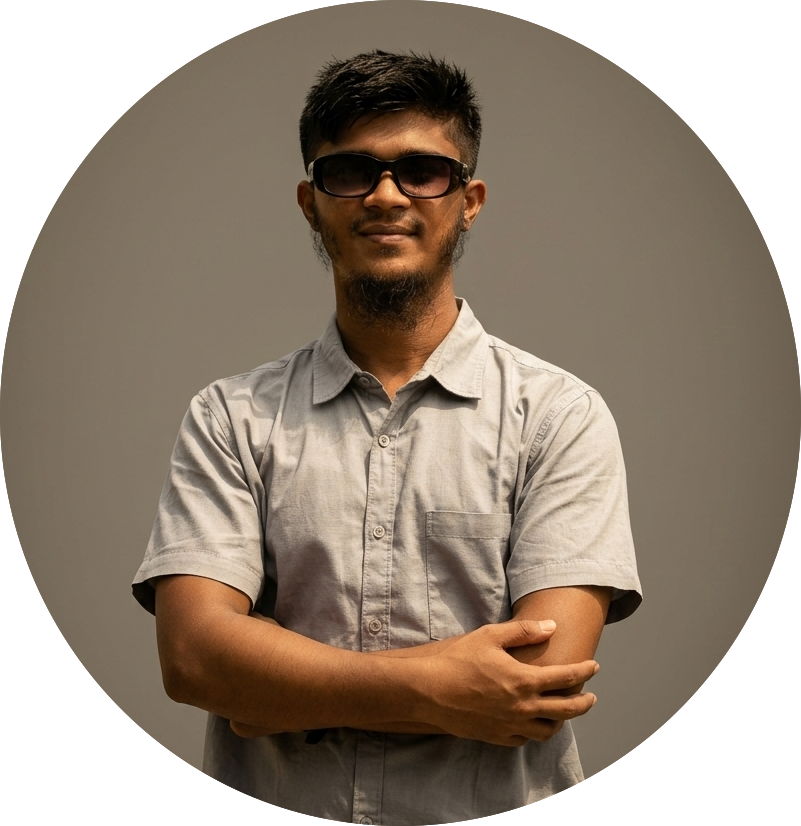
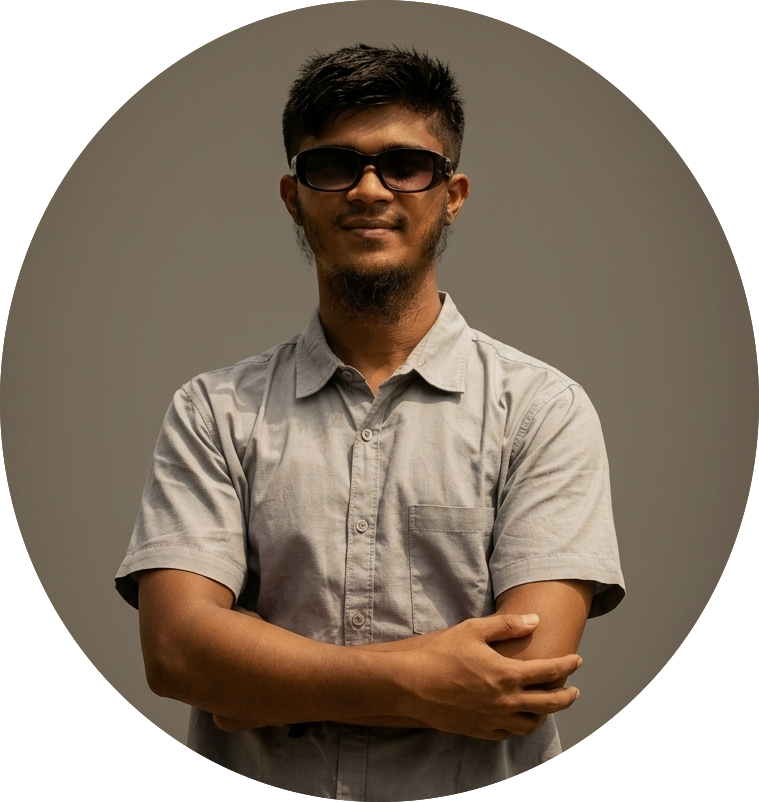
here ad some code for modify

Changed region(s): [[0.1515, 0.0312, 0.8485, 1.0]]

diff --git a/src/component/AnimatedText.js b/src/component/AnimatedText.js
@@ -1,49 +1,51 @@
-import React from 'react'
-import {animate, motion, stagger } from 'framer-motion'
+import React from "react";
+import { animate, motion, stagger } from "framer-motion";
 const quote = {
-    initial:{
-        opacity:1,
+  initial: {
+    opacity: 1,
+  },
+  animate: {
+    opacity: 1,
+    transition: {
+      delay: 0.5,
+      staggerChildren: 0.08,
     },
-    animate:{
-        opacity:1,
-        transition:{
-            delay:0.5,
-            staggerChildren:0.08,
-        }
-    }
-   
-}
+  },
+};
 const singleWord = {
-    initial:{
-        opacity:0,
-        y:50,
+  initial: {
+    opacity: 0,
+    y: 50,
+  },
+  animate: {
+    opacity: 1,
+    y: 0,
+    transition: {
+      duration: 1,
     },
-    animate:{
-        opacity:1,
-        y:0,
-        transition:{
-            duration:1,
-        }
-    }
-   
-}
-const AnimatedText = ({text, className=""}) => {
+  },
+};
+const AnimatedText = ({ text, className = "" }) => {
   return (
-    <div className='w-full mx-auto py-2 items-center justify-center text-center overflow-hidden'>
-        <motion.h1 className={`inline-block w-full text-dark capitalize font-bold text-[24px] md:text-7xl${className}`}
+    <div className="w-full mx-auto py-2 items-center justify-center text-center overflow-hidden">
+      <motion.h1
+        className={`inline-block w-full text-dark capitalize font-bold text-[24px] sm:text-[32px] md:text-6xl lg:text-7xl ${className}`}
         variants={quote}
-        initial= "initial"
-        animate= "animate"
-        >
-        {
-        text.split(" ").map((word, index) => <motion.span key={word+'-'+ index} className='inline-block'variants={singleWord}
-       >
+        initial="initial"
+        animate="animate"
+      >
+        {text.split(" ").map((word, index) => (
+          <motion.span
+            key={word + "-" + index}
+            className="inline-block"
+            variants={singleWord}
+          >
             {word}&nbsp;
-        </motion.span>)
-        }
-        </motion.h1>
+          </motion.span>
+        ))}
+      </motion.h1>
     </div>
-  )
-}
+  );
+};
 
-export default AnimatedText
+export default AnimatedText;

diff --git a/src/pages/index.js b/src/pages/index.js
@@ -19,17 +19,17 @@ export default function Home() {
         <title>Create Next App</title>
         <meta name="description" content="Generated by create next app" />
       </Head>
-      <main className=" mt-7 flex dark:text-light w-full min-h-screen text-dark font-mont">
+      <main className="mt-7 flex dark:text-light w-full min-h-screen text-dark font-mont">
         <Layout className="pt-0 ">
-          <div className="flex items-center  justify-between w-full">
-            <div className="w-1/2">
+          <div className="flex flex-col md:flex-row items-center justify-between w-full gap-6 lg:gap-12 md:gap-0">
+            <div className="w-full md:w-1/2">
               <Image
                 src={ProfilePic}
                 alt="nahio Hasan"
-                className="w-full max-xl-{400px} h-auto"
+                className="w-full max-[400px]  h-auto"
               ></Image>
             </div>
-            <div className="w-1/2 flex flex-col items-center self-center">
+            <div className="w-full md:w-1/2 flex flex-col items-center self-center">
               <AnimatedText
                 text="Turning Vision Into Reality With Code And Design."
                 className=" dark:text-light w-auto !text-left  text-2xl  mb-4"
@@ -40,7 +40,7 @@ export default function Home() {
                 projects and articles, showcasing my expertise in React.js and
                 web development
               </p>
-              <div className="flex items-center self-start mt-2 gap-3 ">
+              <div className="flex flex-wrap items-center self-start mt-2 gap-3 ">
                 {/* here design some design  */}
                 <Link
                   href="/dummy.pdf"
@@ -63,7 +63,7 @@ export default function Home() {
           </div>
         </Layout>
         <HireMe />
-        <div className="absolute right-8 bottom-[-140px] inline-block w-24">
+        <div className="absolute right-8 bottom-[-140px] hidden md:inline-block w-24">
           <Image src={lightbulb} alt="nahid" className="w-full h-auto" />
         </div>
       </main>

diff --git a/src/component/HireMe.js b/src/component/HireMe.js
@@ -3,14 +3,14 @@ import { CircularText } from "./Icons";
 import Link from "next/link";
 const HireMe = () => {
   return (
-    <div className=" fixed left-4 bottom-4 flex items-center justify-center overflow-hidden">
-      <div className="w-48 h-auto flex items-cneter justify-center relative">
+    <div className="fixed left-2 bottom-2 sm:left-4 sm:bottom-4 flex items-center justify-center overflow-hidden">
+      <div className="w-32 h-auto sm:w-48 flex items-cneter justify-center relative">
         <CircularText
           className={"fill-dark dark:fill-white  animate-spin-slow"}
         />
         <Link
           href="mailto:nahidhasan4836@gmail.com"
-          className="flex items-center justify-center absolute left-1/2 top-1/2 -translate-x-1/2 -translate-y-1/2 bg-dark text-light shadow-md border border-solid border-dark w-20 h-20 rounded-full font-semibold hover:bg-light hover:text-dark"
+          className="flex items-center justify-center absolute left-1/2 top-1/2 -translate-x-1/2 -translate-y-1/2 bg-dark text-light shadow-md border border-solid border-dark w-16 h-16 sm:w-20 sm:h-20 rounded-full font-semibold hover:bg-light hover:text-dark"
         >
           Hire Me
         </Link>

diff --git a/src/pages/about.js b/src/pages/about.js
@@ -43,7 +43,7 @@ const about = () => {
           content="HI there here you can Know About me, professional MERN stack developer and SEO expert you can hire me for you project"
         />
       </Head>
-      <main className="flex w-full flex-col items-center justify-center">
+      <main className="flex w-full flex-col items-center justify-center mt-4">
         <Layout className="pt-16 px-5">
           <AnimatedText text="Passion Fules Purpose!" className=" !text-8xl  dark:text-light mb-16" />
           <div className=" grid w-full grid-cols-8  mb-8 gap-16">

diff --git a/src/pages/project.js b/src/pages/project.js
@@ -118,7 +118,7 @@ const project = () => {
         <title>Nahid | Projects Page</title>
         <meta name="description" content="Generated by create next app" />
       </Head>
-      <main className="w-full mb-16 flex px-10 flex-col  items-center justify-center">
+      <main className="w-full mb-16 flex px-10 flex-col mt-4  items-center justify-center">
         <Layout className="pt-16">
           <AnimatedText
             text="Imagination Trumps Knowledge!"

diff --git a/src/component/Navber.js b/src/component/Navber.js
@@ -23,7 +23,7 @@ const Navber = () => {
 
   return (
   <>
-  <header className='w-full px-32 py-8 font-medium dark:text-light flex items-center justify-between '>
+  <header className='w-full px-4 py-4 sm:px-8 lg:px-32 font-medium dark:text-light flex items-center justify-between'>
     <nav className='px-3'>
         <CastomLink href="/" title="Home" className="mr-4"/> 
         <CastomLink href="/about" title="About" className="mx-4" />

diff --git a/src/pages/article.js b/src/pages/article.js
@@ -50,7 +50,7 @@ const Article = () => {
         />
       </Head>
       {/* here  design main part  */}
-      <main className="w-full flex flex-col mb-16 items-center justify-center overflow-hidden">
+      <main className="w-full flex flex-col mb-16 mt-4  items-center justify-center overflow-hidden">
         <Layout className="pt-16 px-5">
           <AnimatedText
             text="Word can change the world!"

diff --git a/src/component/Layout.js b/src/component/Layout.js
@@ -2,7 +2,7 @@ import React from 'react'
 
 const Layout = ({children, className=""}) => {
   return (
-    <div className={`w-full h-full inline-block z-0 dark:bg-dark bg-light p-32${className}`}>
+    <div className={`w-full h-full inline-block z-0 dark:bg-dark bg-light sm:p-10 ${className}`}>
         {children}
     </div>
   )
